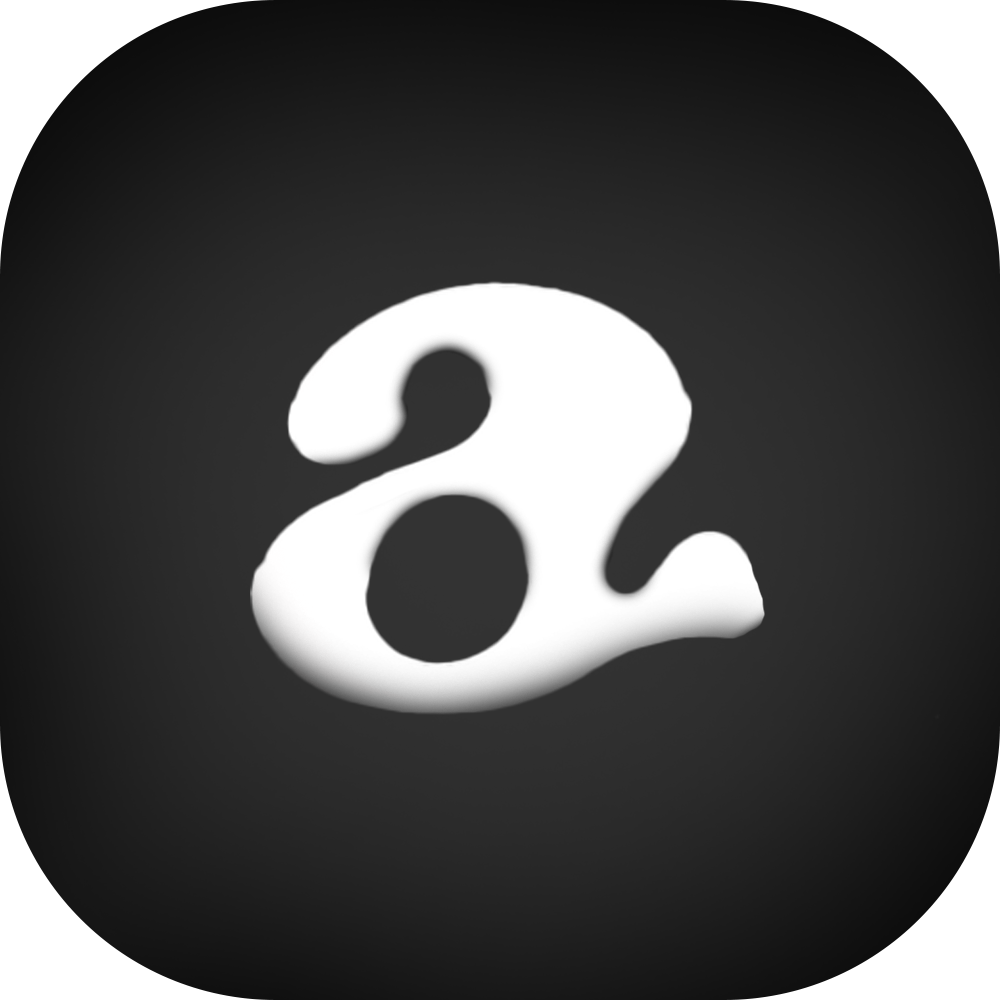
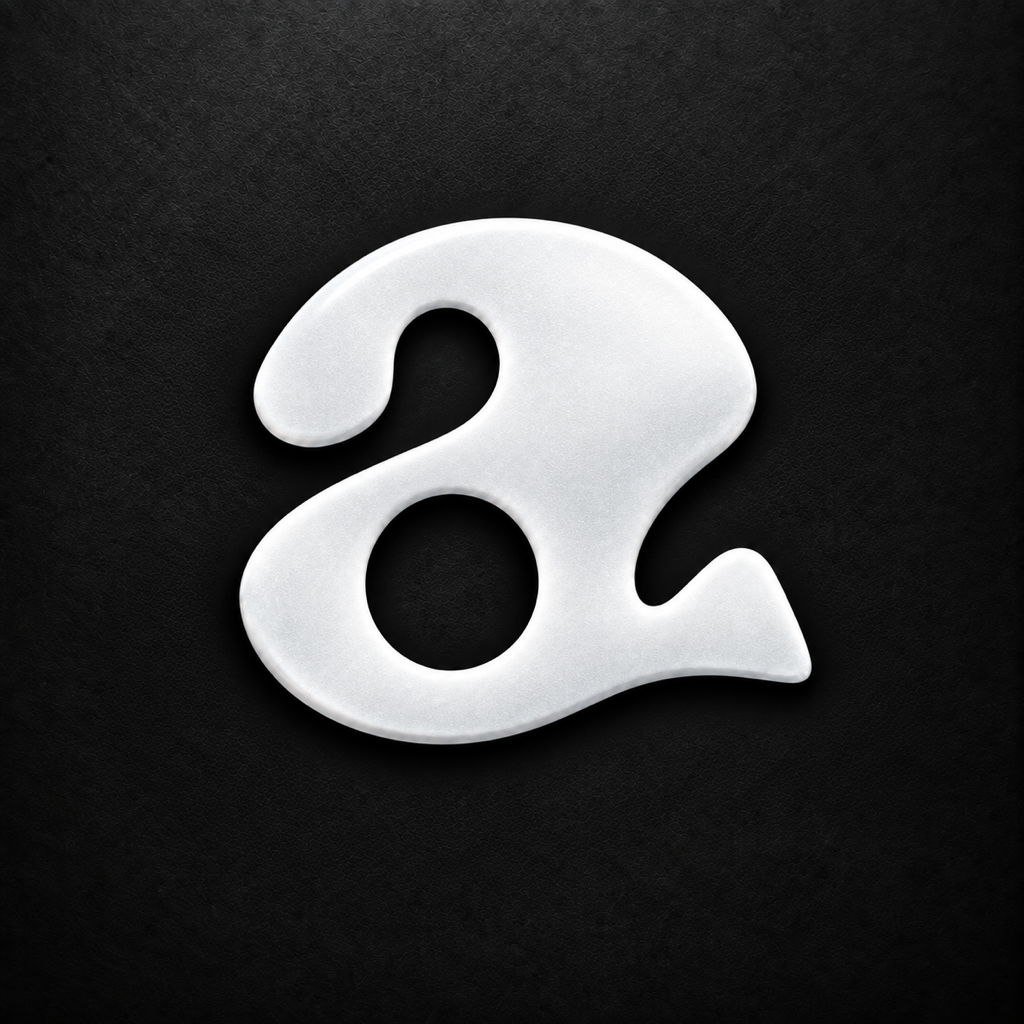
Unifier l’icône officielle AYVO sur fond sombre

diff --git a/docs/account-deletion.html b/docs/account-deletion.html
@@ -1,1 +1,3 @@
-<!doctype html><html lang="fr"><head><meta charset="utf-8"><meta name="viewport" content="width=device-width,initial-scale=1"><title>Supprimer ton compte AYVO — AYVO</title><meta name="description" content="Supprimer ton compte AYVO de l’application AYVO. Contact : contact@ayvobeatmaker.com."><style>:root{color-scheme:light dark;--bg:#fafaf9;--fg:#242424;--muted:#626262;--line:#dededb}*{box-sizing:border-box}body{margin:0;background:var(--bg);color:var(--fg);font:16px/1.75 system-ui,sans-serif}main{max-width:820px;margin:auto;padding:48px 24px 80px}a{color:inherit;text-underline-offset:4px}nav{display:flex;flex-wrap:wrap;gap:12px 24px;margin-bottom:48px;font-size:14px}h1{font-size:clamp(30px,5vw,46px);line-height:1.15;letter-spacing:-1.2px}h2{font-size:23px;line-height:1.35;margin-top:42px}small,.meta{color:var(--muted)}footer{border-top:1px solid var(--line);margin-top:48px;padding-top:24px}li{margin-bottom:8px}@media(prefers-color-scheme:dark){:root{--bg:#111112;--fg:#ececeb;--muted:#b1b1b1;--line:#343434}}</style></head><body><main><nav aria-label="Navigation"><a href="/">AYVO</a><a href="/support.html">Assistance</a><a href="/privacy.html">Confidentialité</a><a href="/account-deletion.html">Suppression du compte</a></nav><h1>Supprimer ton compte AYVO</h1><p>Dans AYVO, ouvre <strong>Réglages → Mon compte → Supprimer le compte</strong>.</p><p>Tu n’as plus accès à l’application ? Envoie ta demande depuis l’adresse e-mail de ton compte à <a href="mailto:contact@ayvobeatmaker.com?subject=Suppression%20de%20mon%20compte%20AYVO">contact@ayvobeatmaker.com</a>. Nous vérifierons ton identité avant de traiter la demande.</p><p>Ton compte est désactivé lors du traitement de la demande. Il reste récupérable pendant <strong>30 jours</strong> : contacte la même adresse pour demander sa réactivation.</p><p>À l’expiration de ce délai, le compte, le profil, les projets et fichiers stockés chez AYVO et les données personnelles associées sont supprimés définitivement. Les justificatifs comptables obligatoires peuvent être conservés. Tes fichiers locaux restent sur tes appareils, de même que les copies déjà téléchargées par d’autres personnes.</p><p>Les abonnements Stripe AYVO sont annulés lors de la demande. Une réactivation ne rétablit pas automatiquement les anciennes sessions, les liens de partage révoqués ou les abonnements annulés.</p><h2>Delete your AYVO account</h2><p>In AYVO, open Settings → My account → Delete account. You can also email <a href="mailto:contact@ayvobeatmaker.com?subject=Delete%20my%20AYVO%20account">contact@ayvobeatmaker.com</a> from your account address. We verify your identity before processing the request. Your account is disabled and recoverable through support for 30 days. After that period, your account and associated data stored by AYVO are permanently deleted, except for legally required records. Local files and copies already downloaded by other people remain on their devices.</p><footer><small>AYVO · <a href="mailto:contact@ayvobeatmaker.com">contact@ayvobeatmaker.com</a></small></footer></main></body></html>
+<!doctype html><html lang="fr"><head><meta charset="utf-8"><meta name="viewport" content="width=device-width,initial-scale=1"><title>Supprimer ton compte AYVO — AYVO</title><meta name="description" content="Supprimer ton compte AYVO de l’application AYVO. Contact : contact@ayvobeatmaker.com."><style>:root{color-scheme:light dark;--bg:#fafaf9;--fg:#242424;--muted:#626262;--line:#dededb}*{box-sizing:border-box}body{margin:0;background:var(--bg);color:var(--fg);font:16px/1.75 system-ui,sans-serif}main{max-width:820px;margin:auto;padding:48px 24px 80px}a{color:inherit;text-underline-offset:4px}nav{display:flex;flex-wrap:wrap;gap:12px 24px;margin-bottom:48px;font-size:14px}h1{font-size:clamp(30px,5vw,46px);line-height:1.15;letter-spacing:-1.2px}h2{font-size:23px;line-height:1.35;margin-top:42px}small,.meta{color:var(--muted)}footer{border-top:1px solid var(--line);margin-top:48px;padding-top:24px}li{margin-bottom:8px}@media(prefers-color-scheme:dark){:root{--bg:#111112;--fg:#ececeb;--muted:#b1b1b1;--line:#343434}}</style><link rel="icon" type="image/png" href="ayvo-app-icon.png?v=dark-20261105">
+<link rel="apple-touch-icon" href="ayvo-app-icon.png?v=dark-20261105">
+</head><body><main><nav aria-label="Navigation"><a href="/">AYVO</a><a href="/support.html">Assistance</a><a href="/privacy.html">Confidentialité</a><a href="/account-deletion.html">Suppression du compte</a></nav><h1>Supprimer ton compte AYVO</h1><p>Dans AYVO, ouvre <strong>Réglages → Mon compte → Supprimer le compte</strong>.</p><p>Tu n’as plus accès à l’application ? Envoie ta demande depuis l’adresse e-mail de ton compte à <a href="mailto:contact@ayvobeatmaker.com?subject=Suppression%20de%20mon%20compte%20AYVO">contact@ayvobeatmaker.com</a>. Nous vérifierons ton identité avant de traiter la demande.</p><p>Ton compte est désactivé lors du traitement de la demande. Il reste récupérable pendant <strong>30 jours</strong> : contacte la même adresse pour demander sa réactivation.</p><p>À l’expiration de ce délai, le compte, le profil, les projets et fichiers stockés chez AYVO et les données personnelles associées sont supprimés définitivement. Les justificatifs comptables obligatoires peuvent être conservés. Tes fichiers locaux restent sur tes appareils, de même que les copies déjà téléchargées par d’autres personnes.</p><p>Les abonnements Stripe AYVO sont annulés lors de la demande. Une réactivation ne rétablit pas automatiquement les anciennes sessions, les liens de partage révoqués ou les abonnements annulés.</p><h2>Delete your AYVO account</h2><p>In AYVO, open Settings → My account → Delete account. You can also email <a href="mailto:contact@ayvobeatmaker.com?subject=Delete%20my%20AYVO%20account">contact@ayvobeatmaker.com</a> from your account address. We verify your identity before processing the request. Your account is disabled and recoverable through support for 30 days. After that period, your account and associated data stored by AYVO are permanently deleted, except for legally required records. Local files and copies already downloaded by other people remain on their devices.</p><footer><small>AYVO · <a href="mailto:contact@ayvobeatmaker.com">contact@ayvobeatmaker.com</a></small></footer></main></body></html>

diff --git a/docs/support.html b/docs/support.html
@@ -1,1 +1,3 @@
-<!doctype html><html lang="fr"><head><meta charset="utf-8"><meta name="viewport" content="width=device-width,initial-scale=1"><title>Assistance AYVO — AYVO</title><meta name="description" content="Assistance AYVO de l’application AYVO. Contact : contact@ayvobeatmaker.com."><style>:root{color-scheme:light dark;--bg:#fafaf9;--fg:#242424;--muted:#626262;--line:#dededb}*{box-sizing:border-box}body{margin:0;background:var(--bg);color:var(--fg);font:16px/1.75 system-ui,sans-serif}main{max-width:820px;margin:auto;padding:48px 24px 80px}a{color:inherit;text-underline-offset:4px}nav{display:flex;flex-wrap:wrap;gap:12px 24px;margin-bottom:48px;font-size:14px}h1{font-size:clamp(30px,5vw,46px);line-height:1.15;letter-spacing:-1.2px}h2{font-size:23px;line-height:1.35;margin-top:42px}small,.meta{color:var(--muted)}footer{border-top:1px solid var(--line);margin-top:48px;padding-top:24px}li{margin-bottom:8px}@media(prefers-color-scheme:dark){:root{--bg:#111112;--fg:#ececeb;--muted:#b1b1b1;--line:#343434}}</style></head><body><main><nav aria-label="Navigation"><a href="/">AYVO</a><a href="/support.html">Assistance</a><a href="/privacy.html">Confidentialité</a><a href="/account-deletion.html">Suppression du compte</a></nav><h1>Assistance AYVO</h1><p>Une question sur ton compte, la synchronisation, un projet ou ton abonnement ? Écris à <a href="mailto:contact@ayvobeatmaker.com">contact@ayvobeatmaker.com</a>.</p><p>Indique le modèle de ton appareil, la version d’AYVO et les étapes qui provoquent le problème. Tu peux joindre une capture en masquant les informations privées. N’envoie jamais ton mot de passe, tes codes de connexion ou tes coordonnées bancaires.</p><h2>Ton compte et tes données</h2><p>Tu peux gérer ton compte depuis les réglages de l’application. Pour une demande concernant tes données, consulte la <a href="/privacy.html">politique de confidentialité</a>. Pour supprimer ton compte sans accès à l’application, utilise la <a href="/account-deletion.html">page dédiée</a>.</p><h2>Support in English</h2><p>Contact <a href="mailto:contact@ayvobeatmaker.com">contact@ayvobeatmaker.com</a> for help with your AYVO account, projects, synchronization or subscription. Include your device model, app version and steps to reproduce the issue. Never send passwords, login codes or card details.</p><footer><small>AYVO · <a href="mailto:contact@ayvobeatmaker.com">contact@ayvobeatmaker.com</a></small></footer></main></body></html>
+<!doctype html><html lang="fr"><head><meta charset="utf-8"><meta name="viewport" content="width=device-width,initial-scale=1"><title>Assistance AYVO — AYVO</title><meta name="description" content="Assistance AYVO de l’application AYVO. Contact : contact@ayvobeatmaker.com."><style>:root{color-scheme:light dark;--bg:#fafaf9;--fg:#242424;--muted:#626262;--line:#dededb}*{box-sizing:border-box}body{margin:0;background:var(--bg);color:var(--fg);font:16px/1.75 system-ui,sans-serif}main{max-width:820px;margin:auto;padding:48px 24px 80px}a{color:inherit;text-underline-offset:4px}nav{display:flex;flex-wrap:wrap;gap:12px 24px;margin-bottom:48px;font-size:14px}h1{font-size:clamp(30px,5vw,46px);line-height:1.15;letter-spacing:-1.2px}h2{font-size:23px;line-height:1.35;margin-top:42px}small,.meta{color:var(--muted)}footer{border-top:1px solid var(--line);margin-top:48px;padding-top:24px}li{margin-bottom:8px}@media(prefers-color-scheme:dark){:root{--bg:#111112;--fg:#ececeb;--muted:#b1b1b1;--line:#343434}}</style><link rel="icon" type="image/png" href="ayvo-app-icon.png?v=dark-20261105">
+<link rel="apple-touch-icon" href="ayvo-app-icon.png?v=dark-20261105">
+</head><body><main><nav aria-label="Navigation"><a href="/">AYVO</a><a href="/support.html">Assistance</a><a href="/privacy.html">Confidentialité</a><a href="/account-deletion.html">Suppression du compte</a></nav><h1>Assistance AYVO</h1><p>Une question sur ton compte, la synchronisation, un projet ou ton abonnement ? Écris à <a href="mailto:contact@ayvobeatmaker.com">contact@ayvobeatmaker.com</a>.</p><p>Indique le modèle de ton appareil, la version d’AYVO et les étapes qui provoquent le problème. Tu peux joindre une capture en masquant les informations privées. N’envoie jamais ton mot de passe, tes codes de connexion ou tes coordonnées bancaires.</p><h2>Ton compte et tes données</h2><p>Tu peux gérer ton compte depuis les réglages de l’application. Pour une demande concernant tes données, consulte la <a href="/privacy.html">politique de confidentialité</a>. Pour supprimer ton compte sans accès à l’application, utilise la <a href="/account-deletion.html">page dédiée</a>.</p><h2>Support in English</h2><p>Contact <a href="mailto:contact@ayvobeatmaker.com">contact@ayvobeatmaker.com</a> for help with your AYVO account, projects, synchronization or subscription. Include your device model, app version and steps to reproduce the issue. Never send passwords, login codes or card details.</p><footer><small>AYVO · <a href="mailto:contact@ayvobeatmaker.com">contact@ayvobeatmaker.com</a></small></footer></main></body></html>

diff --git a/docs/privacy.html b/docs/privacy.html
@@ -1,4 +1,6 @@
-<!doctype html><html lang="fr"><head><meta charset="utf-8"><meta name="viewport" content="width=device-width,initial-scale=1"><title>Politique de confidentialité — AYVO</title><meta name="description" content="Politique de confidentialité de l’application AYVO. Contact : contact@ayvobeatmaker.com."><style>:root{color-scheme:light dark;--bg:#fafaf9;--fg:#242424;--muted:#626262;--line:#dededb}*{box-sizing:border-box}body{margin:0;background:var(--bg);color:var(--fg);font:16px/1.75 system-ui,sans-serif}main{max-width:820px;margin:auto;padding:48px 24px 80px}a{color:inherit;text-underline-offset:4px}nav{display:flex;flex-wrap:wrap;gap:12px 24px;margin-bottom:48px;font-size:14px}h1{font-size:clamp(30px,5vw,46px);line-height:1.15;letter-spacing:-1.2px}h2{font-size:23px;line-height:1.35;margin-top:42px}small,.meta{color:var(--muted)}footer{border-top:1px solid var(--line);margin-top:48px;padding-top:24px}li{margin-bottom:8px}@media(prefers-color-scheme:dark){:root{--bg:#111112;--fg:#ececeb;--muted:#b1b1b1;--line:#343434}}</style></head><body><main><nav aria-label="Navigation"><a href="/">AYVO</a><a href="/support.html">Assistance</a><a href="/privacy.html">Confidentialité</a><a href="/account-deletion.html">Suppression du compte</a></nav><h1>Politique de confidentialité</h1>
+<!doctype html><html lang="fr"><head><meta charset="utf-8"><meta name="viewport" content="width=device-width,initial-scale=1"><title>Politique de confidentialité — AYVO</title><meta name="description" content="Politique de confidentialité de l’application AYVO. Contact : contact@ayvobeatmaker.com."><style>:root{color-scheme:light dark;--bg:#fafaf9;--fg:#242424;--muted:#626262;--line:#dededb}*{box-sizing:border-box}body{margin:0;background:var(--bg);color:var(--fg);font:16px/1.75 system-ui,sans-serif}main{max-width:820px;margin:auto;padding:48px 24px 80px}a{color:inherit;text-underline-offset:4px}nav{display:flex;flex-wrap:wrap;gap:12px 24px;margin-bottom:48px;font-size:14px}h1{font-size:clamp(30px,5vw,46px);line-height:1.15;letter-spacing:-1.2px}h2{font-size:23px;line-height:1.35;margin-top:42px}small,.meta{color:var(--muted)}footer{border-top:1px solid var(--line);margin-top:48px;padding-top:24px}li{margin-bottom:8px}@media(prefers-color-scheme:dark){:root{--bg:#111112;--fg:#ececeb;--muted:#b1b1b1;--line:#343434}}</style><link rel="icon" type="image/png" href="ayvo-app-icon.png?v=dark-20261105">
+<link rel="apple-touch-icon" href="ayvo-app-icon.png?v=dark-20261105">
+</head><body><main><nav aria-label="Navigation"><a href="/">AYVO</a><a href="/support.html">Assistance</a><a href="/privacy.html">Confidentialité</a><a href="/account-deletion.html">Suppression du compte</a></nav><h1>Politique de confidentialité</h1>
 <p class="meta">Dernière mise à jour : 30 octobre 2026 · Applications mobile et ordinateur, services en ligne et site AYVO.</p>
 <p>AYVO t’aide à organiser tes projets musicaux, conserver tes idées, écouter tes créations et collaborer. Cette politique explique les données utilisées pour ces fonctions et les moyens de garder le contrôle sur elles.</p>
 <h2>1. Qui contacter ?</h2>

diff --git a/docs/index.html b/docs/index.html
@@ -12,8 +12,8 @@
   <meta property="og:description" content="Toute ta vie de beatmaker, au même endroit.">
   <meta property="og:image" content="https://ayvobeatmaker.com/ayvo-app-icon.png">
   <meta name="twitter:card" content="summary_large_image">
-  <link rel="icon" href="ayvo-app-icon.png" type="image/png">
-  <link rel="apple-touch-icon" href="ayvo-app-icon.png">
+  <link rel="icon" href="ayvo-app-icon.png?v=dark-20261105" type="image/png">
+  <link rel="apple-touch-icon" href="ayvo-app-icon.png?v=dark-20261105">
   <link rel="preload" href="ayvo-wordmark.png" as="image">
   <link rel="stylesheet" href="styles.css">
 </head>
